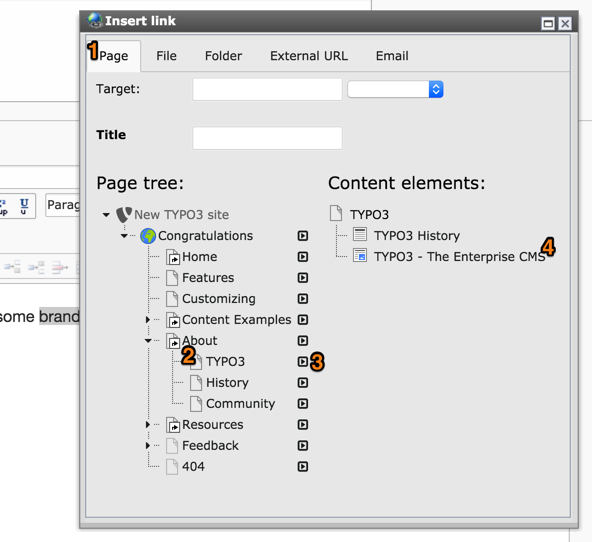
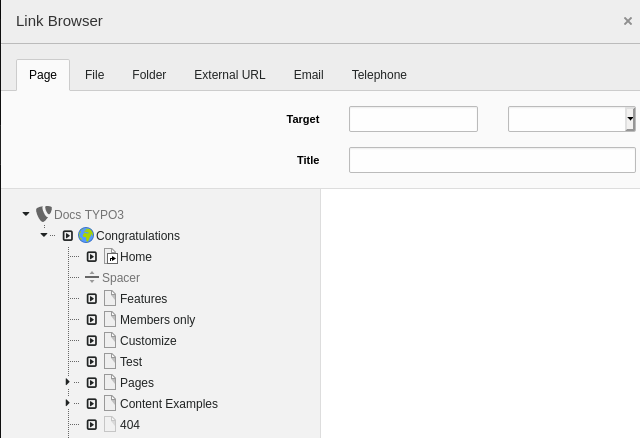
RTE

diff --git a/Documentation/ContentElements/RichTextEditor/Index.rst b/Documentation/ContentElements/RichTextEditor/Index.rst
@@ -7,47 +7,69 @@
 The Rich Text Editor
 ====================
 
-The editor will certainly feel familiar as it is not much
-different from a word processor. The options available in the
-toolbars will vary depending on how the installation was
-set up.
+The TYPO3 text editing interface is not much different from a word processor.
+The options available in the toolbars vary depending on how your TYPO3
+installation is conifgured.
 
 .. figure:: ../../Images/EditContentRichTextEditor.png
    :alt: A typical view of the Rich Text Editor
+   :class: with-border
 
-
-One particular feature is linking. Once you have selected some text
-you can click on the icon highlighted above to create a link.
+You can format text, set the alignment, insert tables and symbols and add
+internal and external links to text.
 
 
 .. _rte-linking:
 
 Creating a Link
-"""""""""""""""
+===============
 
-Clicking on the "Link" icon will open a dialog box for selecting
-what you want to link to. This is called the "link browser".
+#. Select the text you want to link.
+#. Click the :guilabel:`Link` icon in the toolbar.
+   The **Link Browser** window displays.
 
 .. figure:: ../../Images/LinkBrowser.png
    :alt: The TYPO3 CMS link browser
+   :class: with-border
+
+This window lets you link to an internal page, file, folder, external URL,
+email address or phone number.
+
+Internal links
+--------------
+You can link to an internal file, folder, page or content element on a page.
+
+On the Page tab, select the page in the page tree that you want to link to.
+
+Alternatively, you can link to a specific point (anchor) on the page. Browse
+to the page you want to link to, then click the arrow icon next to the page
+name. The content elements on that page are displayed and you can select the
+content element you want to link to.
+
+.. figure:: ../../Images/LinkBrowserAnchor.png
+   :alt: Display the anchors on a page
+   :class: with-border
+
+The **Link Browser** window closes and the link is added to your text.
 
 
-The link browser enables you to make links to pages, files and folders
-or an external URL or an email address. The "Page" tab (1) should be active
-by default.
+External links
+--------------
 
-Expand the page tree until you see the "About > TYPO3" page (2), then click
-on the small arrow to the right of the page (3). This will trigger the display
-of the content elements located on that page in the right half of the
-window.
+#. In the **Link Browser** window, go to the **External URL** tab.
+#. Type your link in the :guilabel:`URL` field.
+#. In the Target drop-down list, select :guilabel:`New window` to open the
+   link in a new browser window.
 
-Click on the "TYPO3 - The Enterprise CMS" element (4) to create a
-link to that element. This will automatically create a link including
-an anchor pointing to that content element (TYPO3 CMS automatically
-places anchors on each content element when rendering).
+   .. figure:: ../../Images/LinkBrowserExternal.png
+      :alt: Display the anchors on a page
+      :class: with-border
 
-You could also have clicked on the "TYPO3" page (2) to create
-a link to that page without targeting a specific content element.
+#. Click the :guilabel:`Set Link` button to close the **Link Browser** window.
 
-Save and view your work in the frontend. There should be a hyperlink
-to your selected target page.
+
+Removing a Link
+===============
+
+To remove a link from text, put your cursor anywhere in the linked text then
+click the :guilable:`Unlink` icon on the toolbar.
